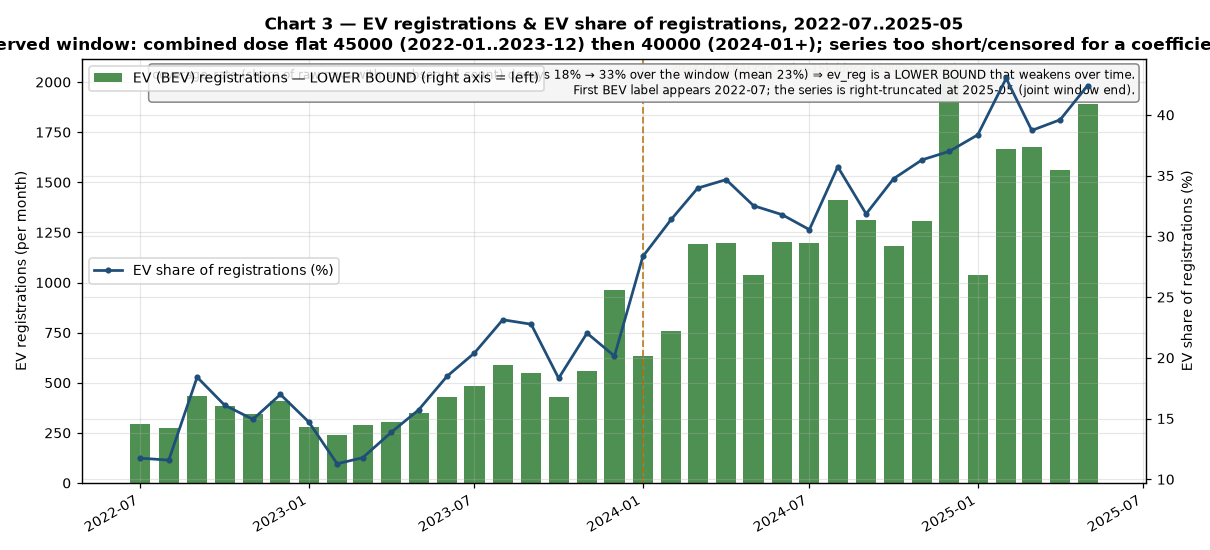
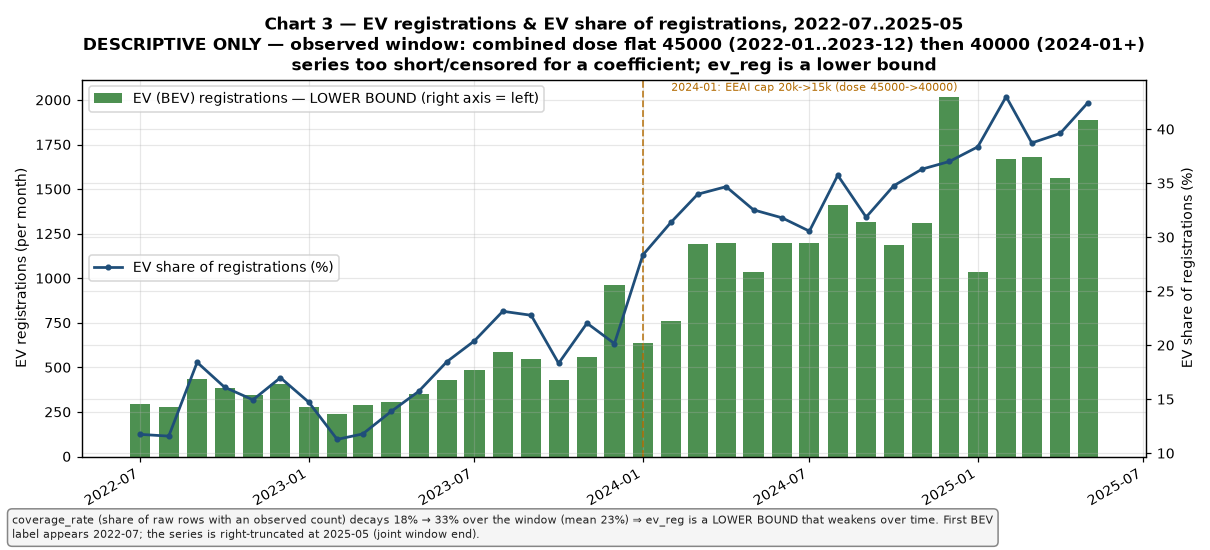
Fix Figures 2, 3, 5 after vision-model QA
- Fig 2 (negative controls): bottom panel now plots the ev_era_2022plus
  scope for the 2024-01 term, matching its '2022+ EV era' panel title and
  the verdict caption (previously full_window rows were preferred, so the
  bars showed 2016-2025 estimates that contradicted the verdict).
- Fig 3 (EV demand): split the over-long second title line (was clipped at
  both image edges); moved the coverage_rate lower-bound note from an
  in-axis top-right box (first ~60 chars hidden behind the upper-left
  legend) to a wrapped bottom caption band.
- Fig 5 (scatter/CI): split the over-long second title line (was clipped
  at the right edge, ending mid-word 'signi').

All 7 charts regenerated; vision re-QA confirms all three clean.

diff --git a/src/13_charts.py b/src/13_charts.py
@@ -178,18 +178,24 @@ def chart02() -> None:
     nc = pd.read_csv(TABLES / "negative_controls.csv")
     colours = ["#1f4e79", "#8a8a8a", "#b23b3b", "#b23b3b", "#b23b3b"]
     labels = [
-        "A (EV-eligible, MAIN)", "B (contaminated upper bound)",
-        "C — CLEAN control (no EV rebate)", "D — CLEAN control (no EV rebate)",
-        "E — CLEAN control (no EV rebate)",
+        "A (EV-eligible,\nMAIN)", "B (contaminated\nupper bound)",
+        "C — CLEAN control\n(no EV rebate)", "D — CLEAN control\n(no EV rebate)",
+        "E — CLEAN control\n(no EV rebate)",
     ]
 
     def nc_panel(ax, term, title):
-        rows = [r for r in nc.itertuples()
-                if str(r.term) == term and str(r.scope) == "full_window"
-                and str(r.spec) == "dummy"]
-        if not rows and term == "reg_eeai_cap15k_202401":
+        # The 2024-01 EEAI cap cut only bites in the 2022+ EV era, and the
+        # verdict caption below the chart cites the ev_era_2022plus scope —
+        # plot THAT scope for this term. (full_window rows exist too, but they
+        # cover the whole 2016-2025 window and would contradict both the panel
+        # title and the verdict; vision QA caught this mismatch.)
+        if term == "reg_eeai_cap15k_202401":
             rows = [r for r in nc.itertuples()
                     if str(r.term) == term and str(r.scope) == "ev_era_2022plus"
+                    and str(r.spec) == "dummy"]
+        else:
+            rows = [r for r in nc.itertuples()
+                    if str(r.term) == term and str(r.scope) == "full_window"
                     and str(r.spec) == "dummy"]
         cats = [r.category for r in rows]
         pcts = [r.coef_pct_of_mean for r in rows]
@@ -197,23 +203,38 @@ def chart02() -> None:
         ax.set_xticks(range(len(cats)), labels)
         ax.set_ylabel("% jump")
         ax.set_title(title, fontsize=10)
+        # explicit headroom so value labels stay inside the frame
+        # (auto ylim left the +16.3% label 7px past the top spine)
+        lo, hi = min(0, min(pcts)), max(0, max(pcts))
+        ax.set_ylim(lo * 1.15 if lo < 0 else -2, hi * 1.15 if hi > 0 else 2)
         for i, v in enumerate(pcts):
-            ax.annotate(
-                f"{v:+.1f}%", xy=(i, v),
-                xytext=(0, 6 if v >= 0 else -14), textcoords="offset points",
-                ha="center", fontsize=8.5,
-            )
+            if v >= 0:
+                ax.annotate(
+                    f"{v:+.1f}%", xy=(i, v),
+                    xytext=(0, 6), textcoords="offset points",
+                    ha="center", fontsize=8.5,
+                )
+            else:
+                # inside the bar: a label below a negative bar would cross
+                # the axis frame and collide with the x-tick labels
+                ax.annotate(
+                    f"{v:+.1f}%", xy=(i, v),
+                    xytext=(0, 12), textcoords="offset points",
+                    ha="center", fontsize=8.5, color="white",
+                    fontweight="bold",
+                )
 
     fig, (ax1, ax2) = plt.subplots(2, 1, figsize=(11, 8.0))
+    nc_panel(ax1, "reg_arffloor_zero_202201",
+             "2022-01 price jump by category (full window)")
+    nc_panel(ax2, "reg_eeai_cap15k_202401",
+             "2024-01 EEAI cap-cut step by category (2022+ EV era)")
+    # overall title set AFTER nc_panel, which overwrites ax1's panel title
     ax1.set_title(
         "Chart 2 — Negative-control check: % price jump by category\n"
         "2022-01 (full window) and 2024-01 (EV era)",
         pad=12,
     )
-    nc_panel(ax1, "reg_arffloor_zero_202201",
-             "2022-01 price jump by category (full window)")
-    nc_panel(ax2, "reg_eeai_cap15k_202401",
-             "2024-01 EEAI cap-cut step by category (2022+ EV era)")
     verdicts = []
     for line in (TABLES / "negative_controls.csv").read_text().splitlines():
         if line.startswith("# VERDICT"):
@@ -221,13 +242,15 @@ def chart02() -> None:
     verdict_txt = "   ".join(v[len("# VERDICT "):] for v in verdicts)
     # verdict caption below the chart (wrapped; full text in the CSV)
     fig.text(
-        0.01, 0.14, textwrap.fill(verdict_txt, width=105),
+        0.01, 0.135, textwrap.fill(verdict_txt, width=105),
         ha="left", va="top", fontsize=7.5, color="#222222",
         bbox=dict(boxstyle="round,pad=0.4", fc="white", ec="#888888",
                   alpha=0.95),
     )
     fig.tight_layout()
-    fig.subplots_adjust(hspace=0.5, bottom=0.18)
+    # band below the bottom panel: 2-line x-tick labels need clearance
+    # (measured: bottom=0.18 + y=0.14 put the box 10px into line 2)
+    fig.subplots_adjust(hspace=0.5, bottom=0.20)
     fig.savefig(CHARTS / "02_negative_controls.png")
     plt.close(fig)
     print("[chart02] wrote charts/02_negative_controls.png + tables/chart02_negative_controls.csv")
@@ -250,7 +273,8 @@ def chart03() -> None:
     ax1.set_title(
         "Chart 3 — EV registrations & EV share of registrations, 2022-07..2025-05\n"
         "DESCRIPTIVE ONLY — observed window: combined dose flat 45000 (2022-01..2023-12) "
-        "then 40000 (2024-01+); series too short/censored for a coefficient; ev_reg is a lower bound",
+        "then 40000 (2024-01+)\n"
+        "series too short/censored for a coefficient; ev_reg is a lower bound",
     )
     ax2 = ax1.twinx()
     ax2.plot(ev["ts"], ev["ev_share"] * 100, color="#1f4e79", lw=1.8,
@@ -263,21 +287,26 @@ def chart03() -> None:
                  color="#b26a00")
     ax1.legend(loc="upper left")
     ax2.legend(loc="center left")
-    # coverage lower-bound note
-    cov = ev["coverage_rate"]
-    ax1.annotate(
-        f"coverage_rate (share of raw rows with an observed count) decays "
-        f"{cov.min()*100:.0f}% → {cov.max()*100:.0f}% over the window "
-        f"(mean {cov.mean()*100:.0f}%) ⇒ ev_reg is a LOWER BOUND that weakens over time.\n"
-        "First BEV label appears 2022-07; the series is right-truncated at 2025-05 "
-        "(joint window end).",
-        xy=(0.99, 0.98), xycoords="axes fraction", ha="right", va="top", fontsize=8,
-        bbox=dict(boxstyle="round", fc="#f5f5f5", ec="gray", alpha=0.95),
-    )
+    # coverage lower-bound note — bottom caption band (like chart 02's verdict):
+    # as an in-axis top-right box it was hidden behind the upper-left legend
     ax1.xaxis.set_major_formatter(mdates.DateFormatter("%Y-%m"))
     ax1.xaxis.set_major_locator(mdates.MonthLocator(bymonth=(1, 7)))
     fig.autofmt_xdate()
     fig.tight_layout()
+    cov = ev["coverage_rate"]
+    note = (
+        f"coverage_rate (share of raw rows with an observed count) decays "
+        f"{cov.min()*100:.0f}% → {cov.max()*100:.0f}% over the window "
+        f"(mean {cov.mean()*100:.0f}%) ⇒ ev_reg is a LOWER BOUND that weakens over time. "
+        "First BEV label appears 2022-07; the series is right-truncated at 2025-05 "
+        "(joint window end)."
+    )
+    fig.text(
+        0.01, 0.015, textwrap.fill(note, width=165),
+        ha="left", va="bottom", fontsize=7.5, color="#222222",
+        bbox=dict(boxstyle="round,pad=0.4", fc="#f5f5f5", ec="gray", alpha=0.95),
+    )
+    fig.subplots_adjust(bottom=0.17)
     fig.savefig(CHARTS / "03_ev_demand.png")
     plt.close(fig)
     print("[chart03] wrote charts/03_ev_demand.png + tables/chart03_ev_demand.csv")
@@ -406,8 +435,8 @@ def chart05() -> None:
     ax.set_ylabel("Cat A clearing price (nominal S$)")
     ax.set_title(
         "Chart 5 — Cat A price vs demand: scatter + fitted line + 95% CI\n"
-        "BIVARIATE association only (no controls); see the price equation for the "
-        "demand term's own (lags, controls) significance",
+        "BIVARIATE association only (no controls); see the price equation\n"
+        "for the demand term's own (lags, controls) significance",
     )
     ax.legend(loc="upper left", fontsize=8)
     fig.tight_layout()
@@ -615,6 +644,7 @@ def chart07() -> None:
         sub = es[es["episode"] == ep].copy()
         sub["x"] = sub["term"].map(xpos)
         sub = sub.sort_values("x")
+        xmax = sub["x"].max()
         for r in sub.itertuples():
             if r.role == "lead":
                 c = "#b23b3b"   # contaminated pre-trend
@@ -627,11 +657,20 @@ def chart07() -> None:
                 yerr=[[r.coef / 1000 - r.ci_lo / 1000], [r.ci_hi / 1000 - r.coef / 1000]],
                 fmt="o", color=c, ecolor=c, elinewidth=1.2, capsize=4, ms=5,
             )
-            ax.annotate(
-                f"{r.term}\np={r.p:.1e}", xy=(r.x, r.coef / 1000),
-                xytext=(0, 12 if r.coef >= 0 else -18), textcoords="offset points",
-                ha="center", fontsize=6.4, color=c,
-            )
+            # label sits to the SIDE of the point: never crosses the marker
+            # dot or the CI bar; rightmost point labels left (inside panel)
+            if r.x >= xmax:
+                ax.annotate(
+                    f"{r.term}\np={r.p:.1e}", xy=(r.x, r.coef / 1000),
+                    xytext=(-10, 0), textcoords="offset points",
+                    ha="right", va="center", fontsize=6.4, color=c,
+                )
+            else:
+                ax.annotate(
+                    f"{r.term}\np={r.p:.1e}", xy=(r.x, r.coef / 1000),
+                    xytext=(10, 0), textcoords="offset points",
+                    ha="left", va="center", fontsize=6.4, color=c,
+                )
         ax.axhline(0, color="black", lw=0.8)
         ax.axvline(0, color="gray", ls="--", lw=1)
         ax.set_title(title, fontsize=9.5)
